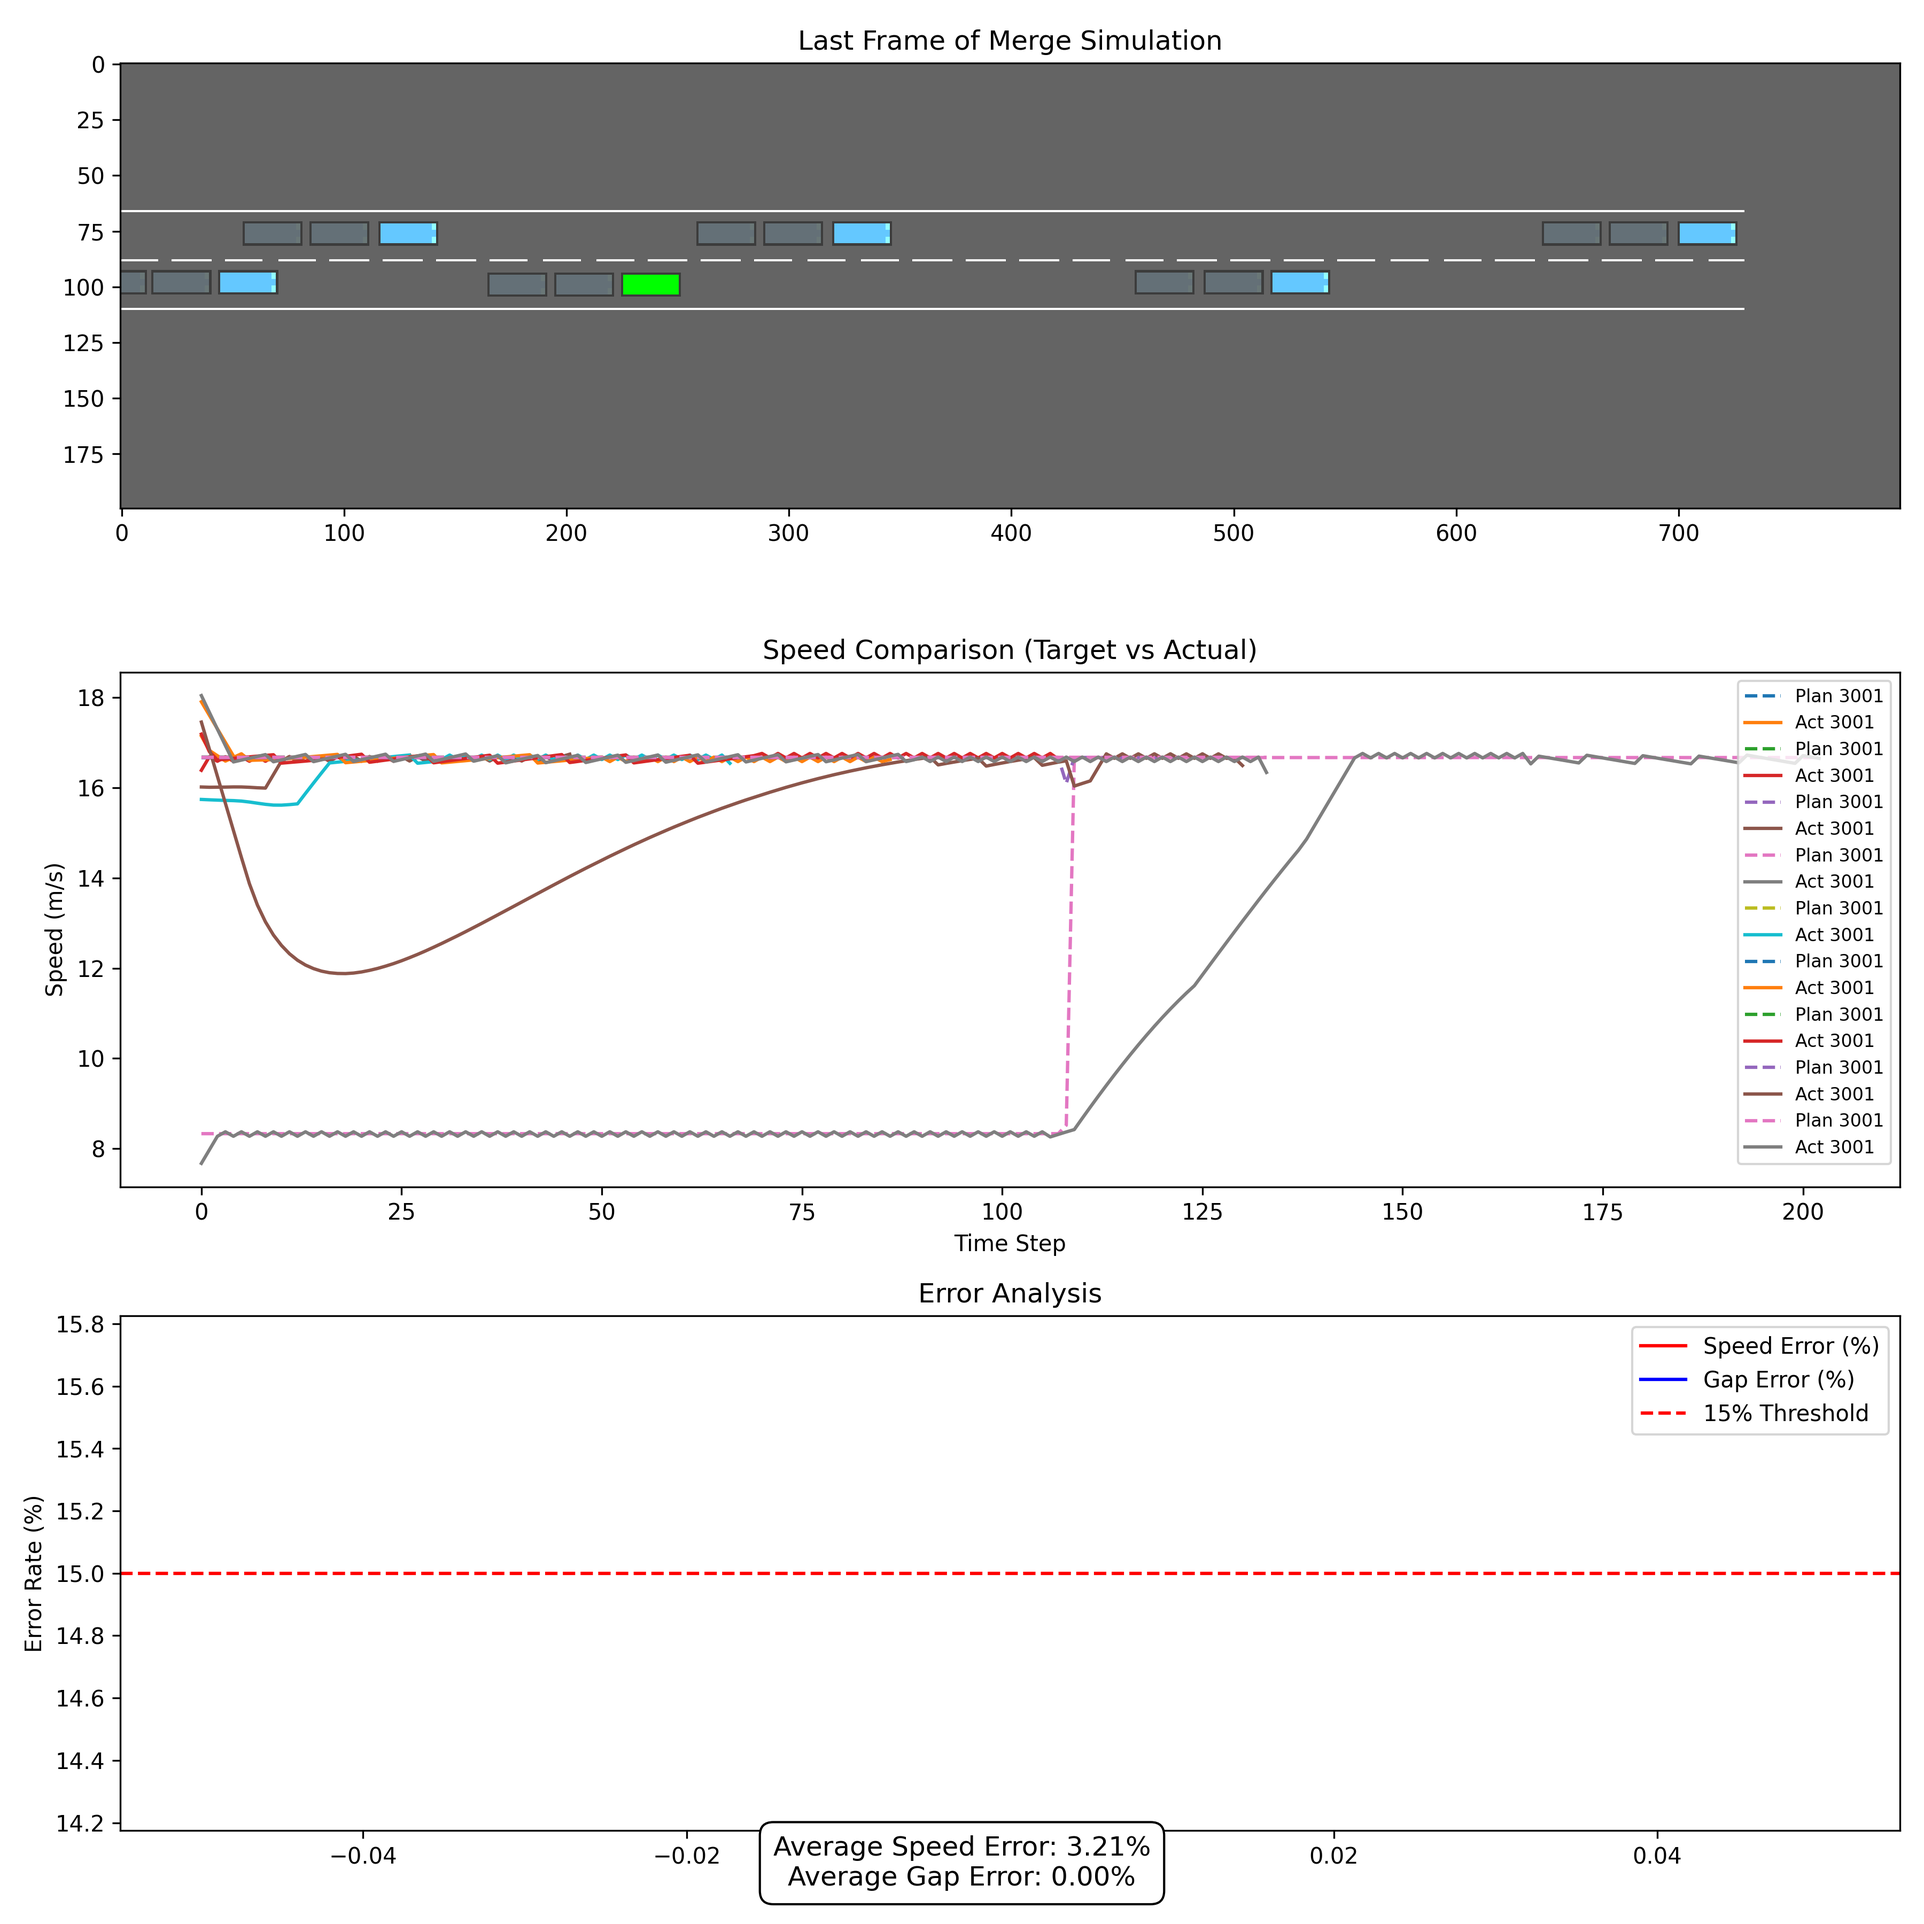
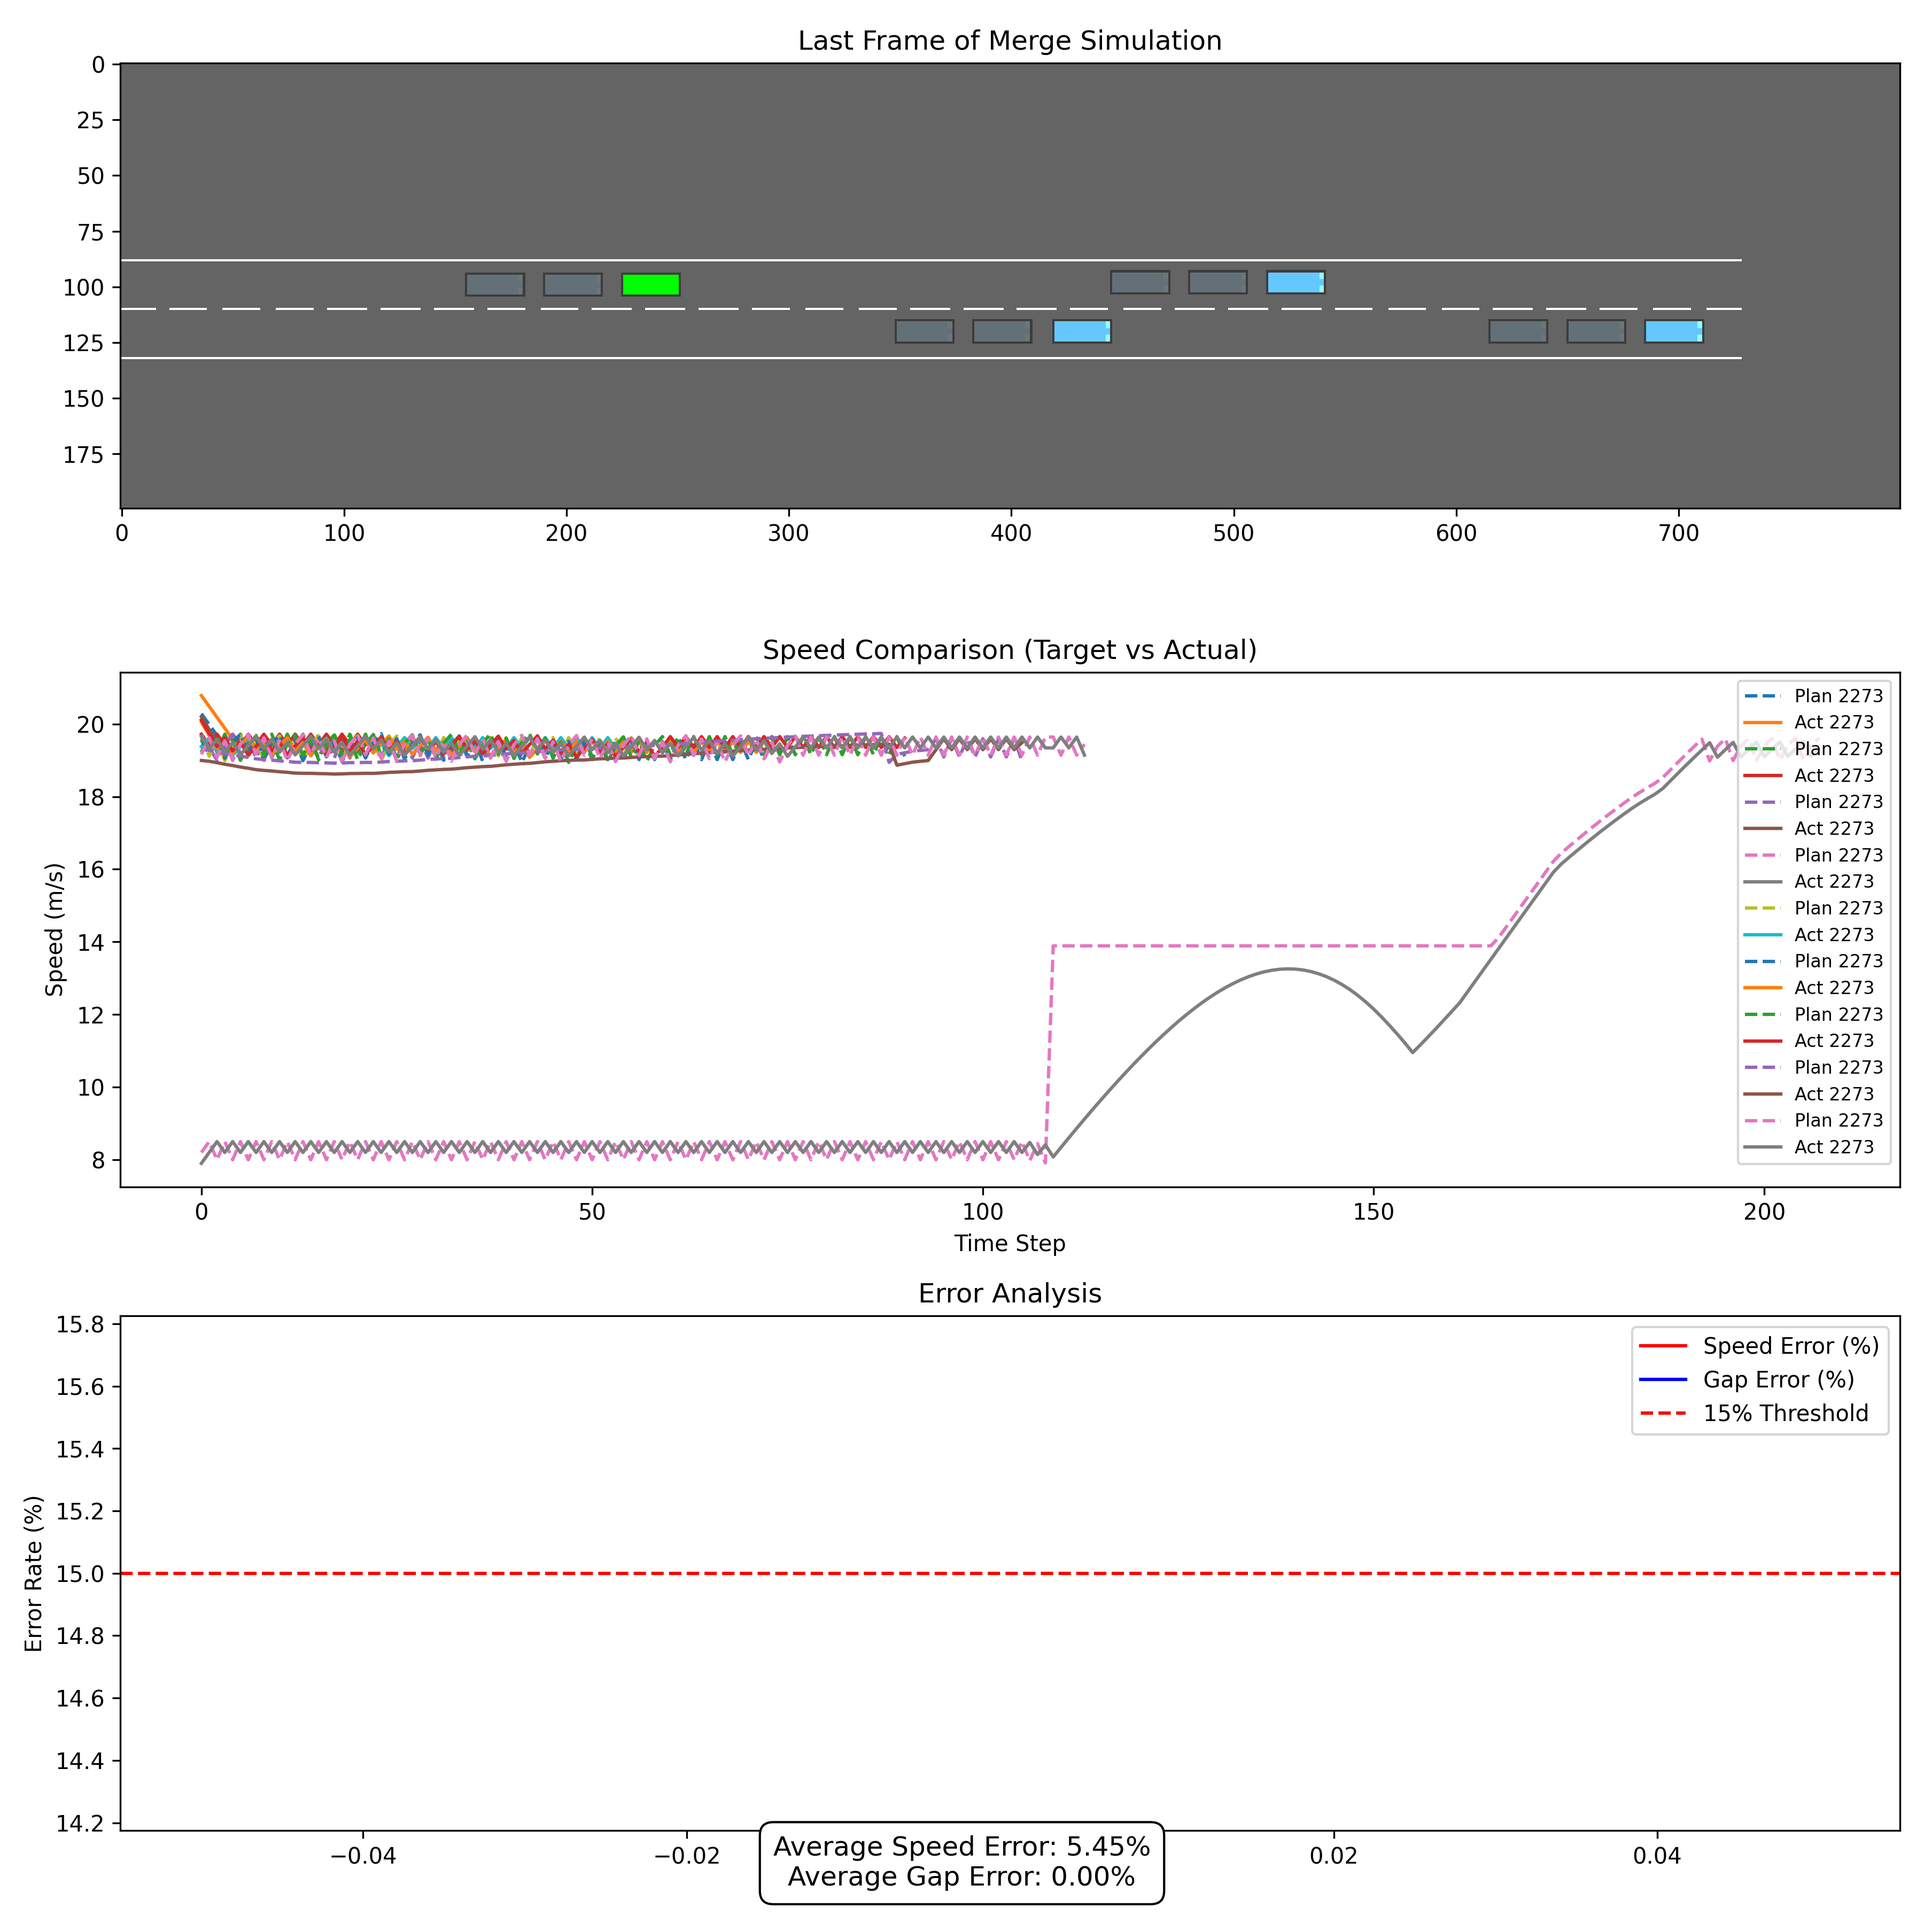
Co-authored-by: sam <2331673@tongji.edu.cn> Co-authored-by: 2331673 <2331673@tongji.edu.cn>

diff --git a/planner.py b/planner.py
@@ -9,8 +9,8 @@ class Planner:
         # 对应merge_env.py中 ends = [150, 80, 80, 150]
         # jk交汇点x = ends[0] = 150，kb交汇点x = ends[0] + ends[1] = 230
         self.merging_zone = (150, 230)
-        self.MAINLINE_MIN_SPEED = 40.0/3.6  # 60km/h
-        self.RAMP_MIN_SPEED = 10/3.6    # 20km/h
+        self.MAINLINE_MIN_SPEED = 50.0/3.6  # 50km/h
+        self.RAMP_MIN_SPEED = 20/3.6    # 20km/h
 
     def correct_vehicle_state(self, vehicle, env):
         vehicle_id = id(vehicle)
@@ -93,7 +93,7 @@ class Planner:
             # 预测两车到达汇入点的时间（考虑加速度过程）
             ramp_time = self.predict_arrival_time(ramp_dist, ramp_state['speed'], self.RAMP_MIN_SPEED, RAMP_A_MAX)   # 匝道加速
             main_time = self.predict_arrival_time(main_dist, main_state['speed'], self.MAINLINE_MIN_SPEED, MAIN_A_MIN)  # 主路减速
-            time_gap = 1.5 if ramp_state['position'] >= self.merging_zone[0] else 1.5
+            time_gap = 1.0 if ramp_state['position'] >= self.merging_zone[0] else 1.0
             if (main_time - ramp_time) > time_gap:
                 # 匝道车辆以最大加速度提速，但不超过限速
                 ramp_target_speed = ramp_state['speed'] + RAMP_A_MAX * ramp_time
@@ -116,15 +116,30 @@ class Planner:
         mainline_vehicles = [v for v in merging_sequence if v.lane_index[0] in ["a", "b", "c"]]
         ramp_vehicles = [v for v in merging_sequence if v.lane_index[0] in ["j", "k"]]
 
-        # 1. 所有主路车辆初始期望速度为80km/h，匝道为40km/h
         planned_speeds = {}
+        dt = 0.1  # 仿真步长
+
         for vehicle in merging_sequence:
             vehicle_id = id(vehicle)
+            # 主干道车辆
             if vehicle.lane_index[0] in ["a", "b", "c"]:
-                target_speed = 60/3.6  # 主路80km/h
+                speed = vehicle.speed
+                acc_max = min(getattr(vehicle, "ACC_MAX", 2.0), getattr(vehicle, "COMFORT_ACC_MAX", 2.0))
+                acc_min = max(-getattr(vehicle, "ACC_MAX", 2.0), getattr(vehicle, "COMFORT_ACC_MIN", -2.0))
+                if speed < 70/3.6:
+                    target_speed = speed + acc_max * dt
+                else:
+                    target_speed = speed + acc_min * dt
                 min_speed = self.MAINLINE_MIN_SPEED
+            # 匝道车辆
             elif vehicle.lane_index[0] in ["j", "k"]:
-                target_speed = 30/3.6  # 匝道40km/h
+                speed = vehicle.speed
+                acc_max = min(getattr(vehicle, "ACC_MAX", 2.0), getattr(vehicle, "COMFORT_ACC_MAX", 2.0))
+                acc_min = max(-getattr(vehicle, "ACC_MAX", 2.0), getattr(vehicle, "COMFORT_ACC_MIN", -2.0))
+                if speed < 30/3.6:
+                    target_speed = speed + acc_max * dt
+                else:
+                    target_speed = speed + acc_min * dt
                 min_speed = self.RAMP_MIN_SPEED
             else:
                 target_speed = 30.0
@@ -132,7 +147,6 @@ class Planner:
             planned_speeds[vehicle_id] = max(min_speed, min(35.0, target_speed))
 
         # 2. 协调控制，只和主干道上序号为1的车辆交互
-        # 找到距离汇入点最近的主路车辆
         merging_point = self.merging_zone[1]
         mainline_sorted = sorted(
             [v for v in mainline_vehicles if v.position[0] < merging_point],

diff --git a/highway_env/envs/merge_v1.py b/highway_env/envs/merge_v1.py
@@ -8,7 +8,7 @@ class MergeEnvV1(MergeEnv):
         road = self.road
         other_vehicles_type = utils.class_from_path(self.config["other_vehicles_type"])
         # 匝道ego车，速度范围30~40km/h
-        ego_speed = self.np_random.uniform(25, 35) / 3.6
+        ego_speed = self.np_random.uniform(28, 35) / 3.6
         ego_vehicle = other_vehicles_type(
             road, road.network.get_lane(("j", "k", 0)).position(140, 0), speed=ego_speed
         )
@@ -19,7 +19,7 @@ class MergeEnvV1(MergeEnv):
         for position in main_positions:
             lane = road.network.get_lane(("a", "b", self.np_random.integers(2)))
             pos = lane.position(position + self.np_random.uniform(-5, 5), 0)
-            speed = self.np_random.uniform(55, 65) / 3.6  # 70~90 km/h
+            speed = self.np_random.uniform(65, 75) / 3.6  # 70~90 km/h
             road.vehicles.append(other_vehicles_type(road, pos, speed=speed))
         self.vehicle = ego_vehicle
 

diff --git a/highway_env/vehicle/behavior.py b/highway_env/vehicle/behavior.py
@@ -30,7 +30,7 @@ class IDMVehicle(ControlledVehicle):
     DISTANCE_WANTED = 5.0 + ControlledVehicle.LENGTH  # [m]
     """Desired jam distance to the front vehicle."""
 
-    TIME_WANTED = 1.5  # [s]
+    TIME_WANTED = 1.0  # [s]
     """Desired time gap to the front vehicle."""
 
     DELTA = 4.0  # []
